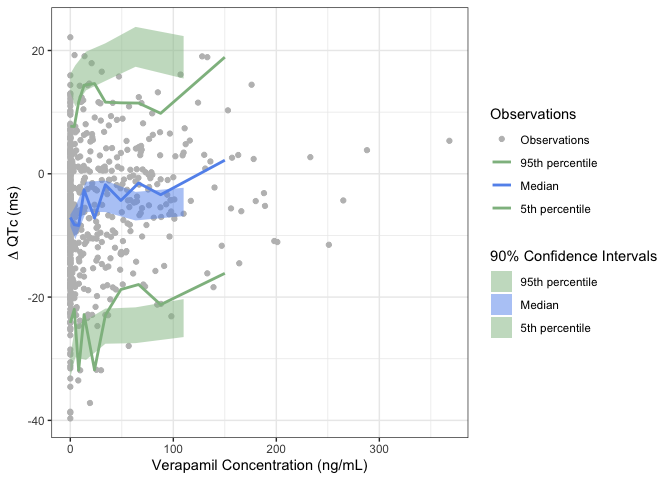
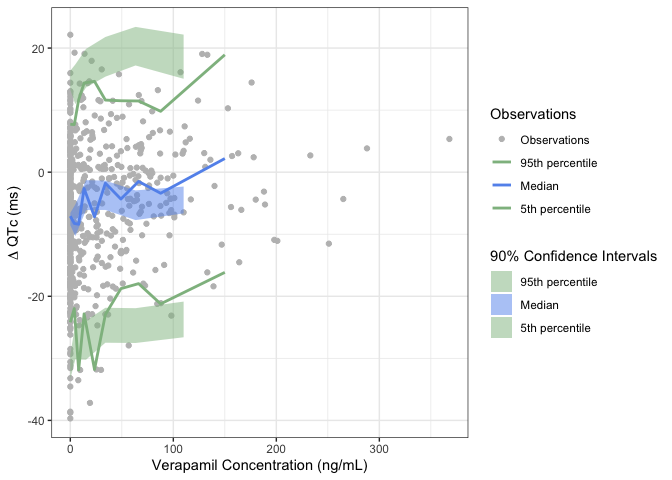
readme figadd seed to vpc

diff --git a/NEWS.md b/NEWS.md
@@ -11,6 +11,7 @@
 ### Enhanced
 * All high QTc functions now support configurable `qtc_thresholds` and `dqtc_thresholds` arguments (defaults: `c(450, 480, 500)` and `c(30, 60)`).
 * New `compute_hr()` derives `HR`/`HRBL` from RR.
+* `gof_vpc_plot()` and `compute_summary_statistics_of_simulations()` gain a `seed` argument.
 * New `compute_hrblm()`, `compute_qtcbblm()`, and `compute_qtcfblm()` add population baseline-mean columns from a baseline dataset.
 * Example datasets now include subject covariates.
 * `fit_prespecified_model()` now errors early with an actionable message when a model column has a non-syntactic name, naming the offending columns.
